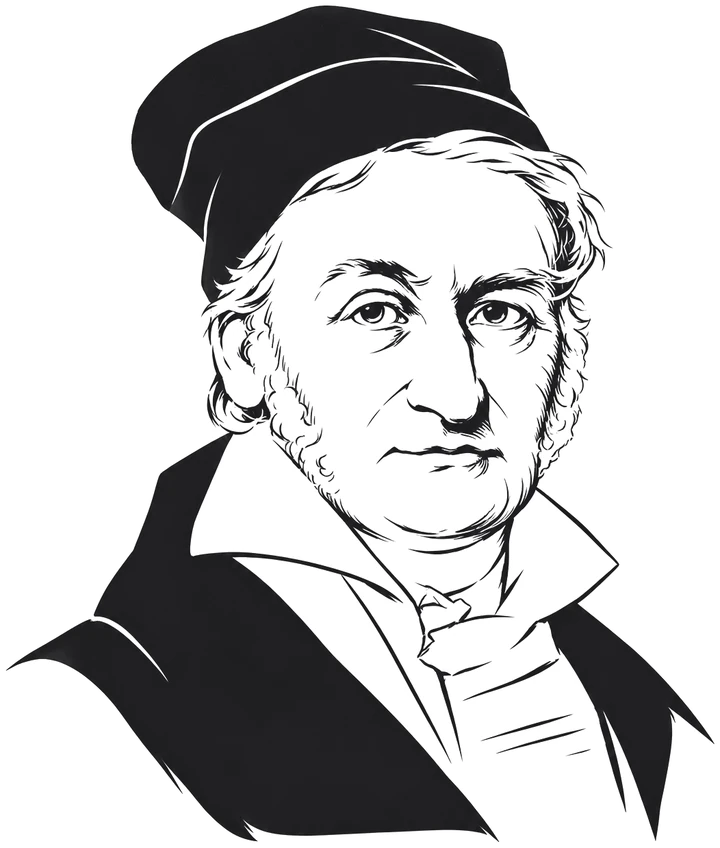
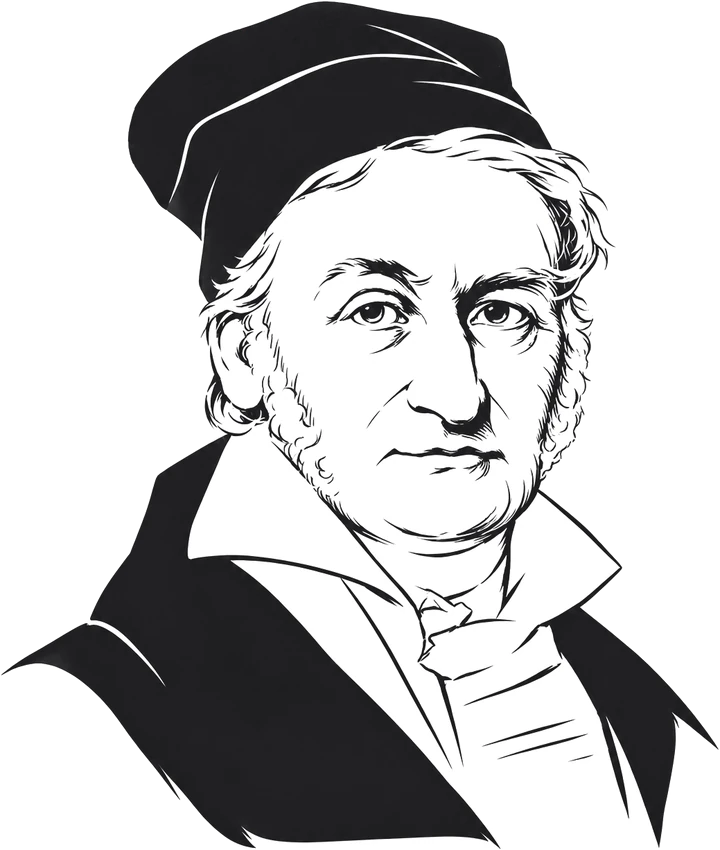
Essai Gauss : portrait posé sur le fond du site avec une ombre légère, entrée animée, sans anecdote
Claude-Session: https://claude.ai/code/session_012mSEHHkMjNTzE7M5gpgc5A

diff --git a/essai-gauss.html b/essai-gauss.html
@@ -13,28 +13,39 @@
 <link rel="stylesheet" href="https://fonts.googleapis.com/css2?family=Instrument+Sans:wght@400;500;600;700&family=STIX+Two+Text:ital,wght@0,400;0,500;1,400;1,500&display=swap">
 <link rel="stylesheet" href="assets/site.css?v=20261018b">
 <style>
-/* essai : Gauss à gauche de l'accueil */
-.hero-gauss { text-align: left; padding-block: clamp(40px, 7vw, 84px) 0; }
-.hg-grille { display: grid; grid-template-columns: minmax(0, 330px) minmax(0, 1fr); gap: clamp(28px, 5vw, 72px); align-items: center; }
+/* essai : Gauss à gauche de l'accueil, posé sur le fond du site */
+.hero-gauss { text-align: left; padding-block: clamp(36px, 6vw, 72px) clamp(24px, 4vw, 48px); overflow: clip; }
+.hg-grille { display: grid; grid-template-columns: minmax(0, 5fr) minmax(0, 6fr); gap: clamp(24px, 5vw, 80px); align-items: center; }
 .hero-gauss .actions { justify-content: flex-start; }
-.hero-gauss .accroche { max-width: 26ch; }
-.gauss { margin: 0; display: grid; gap: 14px; }
-.gauss-carte { position: relative; border-radius: 22px; overflow: hidden; padding: 22px 14px 10px 36px; box-shadow: var(--ombre);
-  background-color: #ffffff; background-image: linear-gradient(#dbe9f5 1px, transparent 1px), linear-gradient(90deg, #dbe9f5 1px, transparent 1px);
-  background-size: 18px 18px; background-position: -1px -1px; transform: rotate(-1.5deg); }
-.gauss-carte::before { content: ""; position: absolute; top: 0; bottom: 0; left: 26px; width: 2px; background: #d4322c; opacity: .7; }
-.gauss-portrait { display: block; width: 100%; height: auto; }
-.gauss-cloche { display: block; width: 100%; height: auto; margin-top: -6px; }
-.gauss figcaption { display: flex; flex-wrap: wrap; gap: 4px 10px; align-items: baseline; padding-left: 6px; }
-.gauss .nom { font-weight: 600; }
-.gauss .dates { color: var(--gris); font-variant-numeric: tabular-nums; }
-.gauss .anecdote { flex-basis: 100%; font-family: var(--f-maths); font-style: italic; color: var(--gris); }
+.hero-gauss .accroche { max-width: 30ch; text-wrap: balance; }
+.gauss { margin: 0; display: grid; justify-items: center; gap: 18px; will-change: transform; }
+.gauss-ombre { width: 100%; max-width: 440px; filter: drop-shadow(0 22px 26px rgba(30, 40, 70, .16)) drop-shadow(0 2px 3px rgba(30, 40, 70, .10)); }
+.gauss-portrait { display: block; width: 100%; height: auto;
+  -webkit-mask-image: linear-gradient(to bottom, #000 87%, transparent 100%); mask-image: linear-gradient(to bottom, #000 87%, transparent 100%); }
+.gauss figcaption { margin-top: -18px; }
+.gauss figcaption { font-size: 14px; letter-spacing: .01em; color: var(--gris); }
+.gauss .nom { color: var(--encre); font-weight: 600; }
+.gauss .dates { font-variant-numeric: tabular-nums; margin-left: 8px; }
+@media (prefers-color-scheme: dark) { :root:not([data-theme="light"]) .gauss-ombre {
+  filter: drop-shadow(0 0 1px rgba(255,255,255,.55)) drop-shadow(0 18px 40px rgba(255,255,255,.08)); } }
+:root[data-theme="dark"] .gauss-ombre { filter: drop-shadow(0 0 1px rgba(255,255,255,.55)) drop-shadow(0 18px 40px rgba(255,255,255,.08)); }
+
+/* entrée à la manière d'une page produit : le portrait monte et se pose, puis le texte suit */
+@keyframes hg-pose { from { opacity: 0; transform: translateY(40px) scale(.94); } to { opacity: 1; transform: none; } }
+@keyframes hg-monte { from { opacity: 0; transform: translateY(18px); } to { opacity: 1; transform: none; } }
+.hg-entree .gauss-ombre { animation: hg-pose 1.3s cubic-bezier(.16, 1, .3, 1) both; }
+.hg-entree .gauss figcaption { animation: hg-monte .9s .55s cubic-bezier(.16, 1, .3, 1) both; }
+.hg-entree .hg-texte > * { animation: hg-monte 1s cubic-bezier(.16, 1, .3, 1) both; }
+.hg-entree .hg-texte > :nth-child(1) { animation-delay: .25s; }
+.hg-entree .hg-texte > :nth-child(2) { animation-delay: .4s; }
+.hg-entree .hg-texte > :nth-child(3) { animation-delay: .55s; }
+@media (prefers-reduced-motion: reduce) { .hg-entree * { animation: none !important; } }
+
 @media (max-width: 820px) {
-  .hg-grille { grid-template-columns: 1fr; justify-items: center; text-align: center; }
-  .gauss { width: min(240px, 70%); }
+  .hg-grille { grid-template-columns: 1fr; justify-items: center; text-align: center; gap: 20px; }
+  .gauss-ombre { max-width: min(250px, 66vw); }
   .hero-gauss .actions { justify-content: center; }
   .hero-gauss .accroche { margin-inline: auto; }
-  .gauss figcaption { justify-content: center; text-align: center; }
 }
 </style>
 </head>
@@ -51,19 +62,11 @@
 </header>
 
 <main>
-  <section class="hero hero-gauss gouttiere">
+  <section class="hero hero-gauss hg-entree gouttiere">
     <div class="colonne hg-grille">
-      <figure class="gauss">
-        <div class="gauss-carte">
-<img class="gauss-portrait" src="assets/gauss.webp" width="720" height="848" alt="Portrait dessiné de Carl Friedrich Gauss, calotte noire et col blanc">
-          <svg class="gauss-cloche" aria-hidden="true" viewBox="0 0 300 70" fill="none">
-            <line x1="10" y1="60" x2="290" y2="60" stroke="#1d1d1f" stroke-width="1.2"/>
-            <path d="M10 59 C 90 58, 112 8, 150 8 C 188 8, 210 58, 290 59" stroke="#d4322c" stroke-width="2"/>
-            <line x1="150" y1="8" x2="150" y2="60" stroke="#1d1d1f" stroke-width="1" stroke-dasharray="3 4"/>
-          </svg>
-        </div>
-        <figcaption><span class="nom">Carl Friedrich Gauss</span> <span class="dates">1777 – 1855</span>
-          <span class="anecdote">À 9 ans : <span style="white-space:nowrap">1 + 2 + … + 100</span> <span style="white-space:nowrap">= 50 × 101 = 5 050</span></span></figcaption>
+      <figure class="gauss" id="gauss">
+        <div class="gauss-ombre"><img class="gauss-portrait" src="assets/gauss.webp" width="720" height="850" alt="Portrait dessiné de Carl Friedrich Gauss, calotte noire et col blanc" fetchpriority="high"></div>
+        <figcaption><span class="nom">Carl Friedrich Gauss</span><span class="dates">1777 – 1855</span></figcaption>
       </figure>
       <div class="hg-texte">
         <h1>Colin<span class="esperluette">éaire</span></h1>
@@ -201,5 +204,19 @@
   </div>
 </footer>
 <script src="assets/site.js"></script>
+<script>
+(function () {
+  var g = document.getElementById('gauss');
+  if (!g || matchMedia('(prefers-reduced-motion: reduce)').matches) return;
+  var att = false;
+  function maj() {
+    att = false;
+    var y = Math.min(window.scrollY, 700);
+    g.style.transform = 'translateY(' + (y * 0.12).toFixed(1) + 'px) scale(' + (1 - y * 0.00006).toFixed(4) + ')';
+    g.style.opacity = (1 - Math.max(0, y - 220) / 900).toFixed(3);
+  }
+  addEventListener('scroll', function () { if (!att) { att = true; requestAnimationFrame(maj); } }, { passive: true });
+})();
+</script>
 </body>
 </html>
